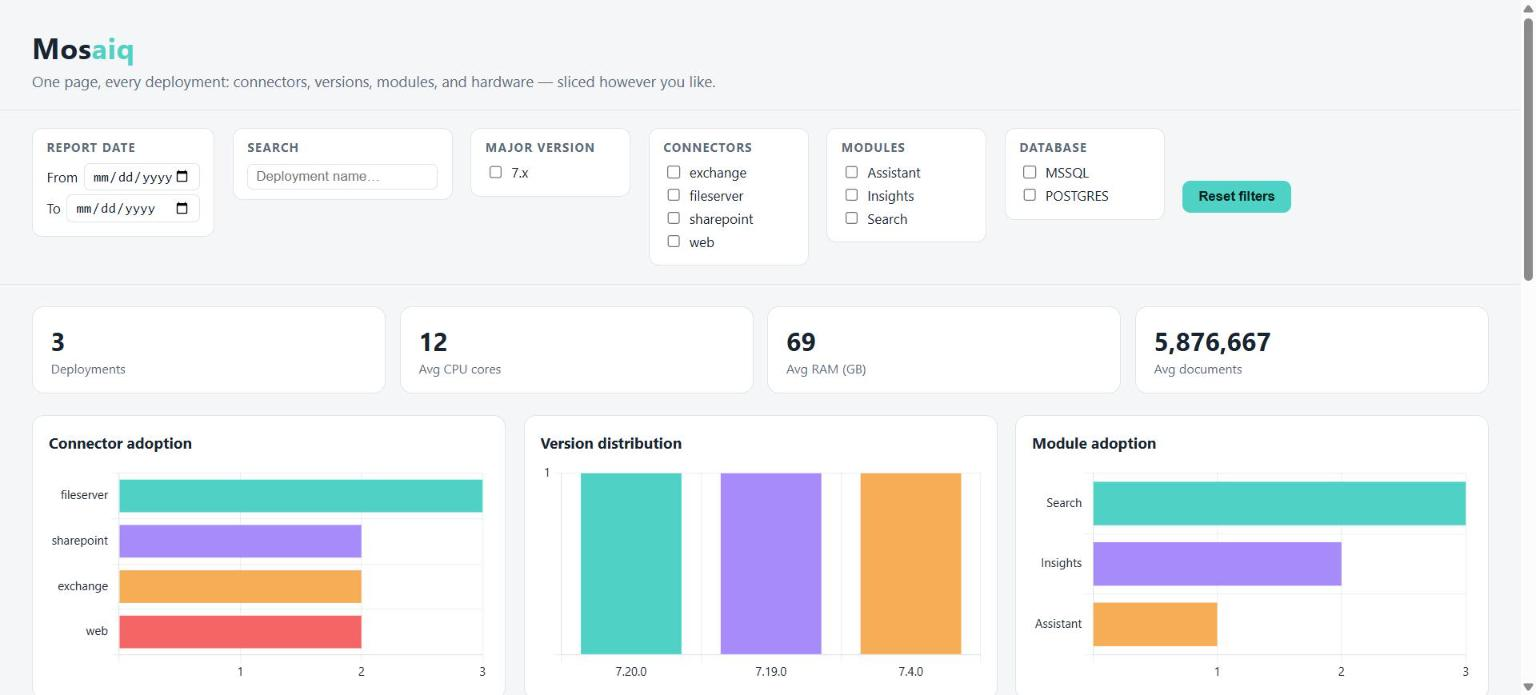
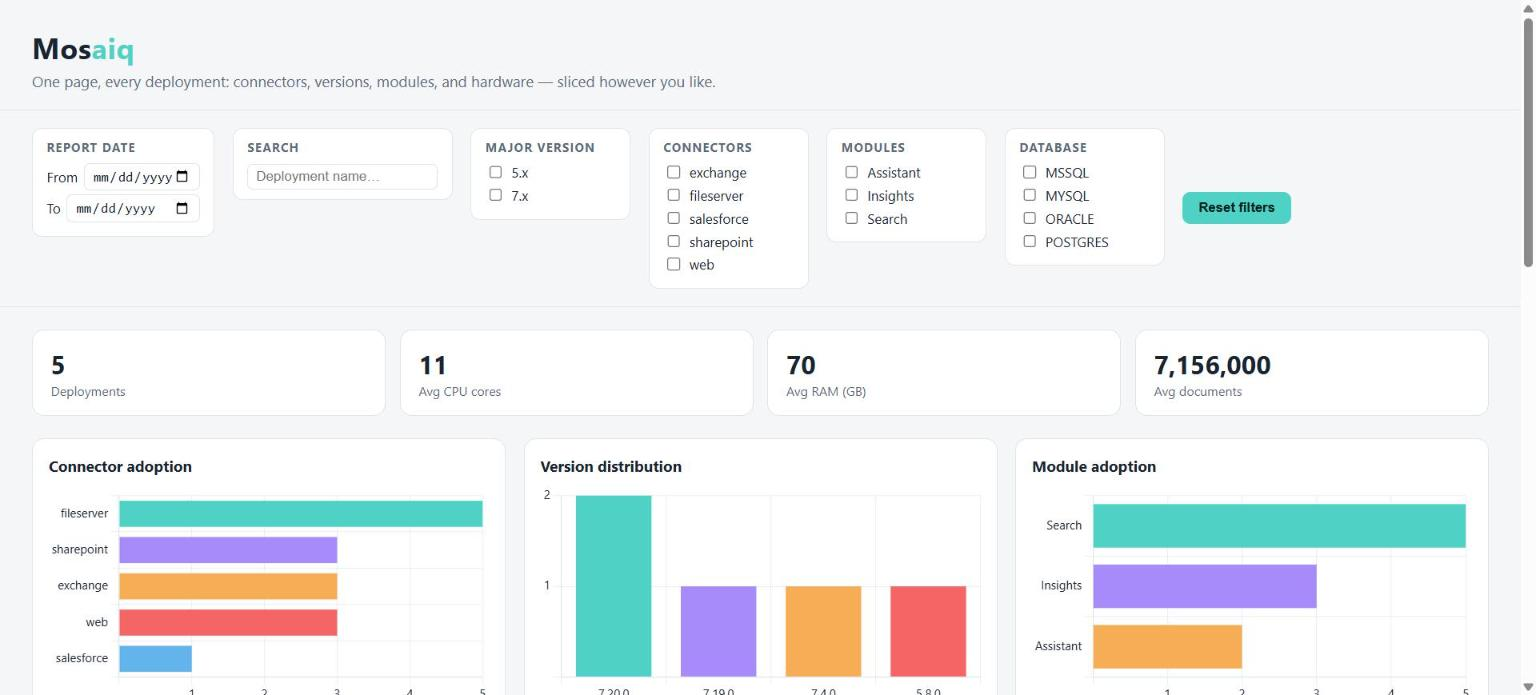
Consolidate examples under a single top-level quickstart/ walkthrough
Replaces examples/ (three disconnected sibling folders with no ordering)
with quickstart/, led by one README that walks start-to-finish: try the
bundled sample fleet, check if your format already matches, then pick
the config-only or custom-parser path. Each subfolder keeps its own
short README scoped to just its reference detail.

Also gives the sample fleet a shared version/CPU-core value across two
deployments so the version and CPU-cores distribution charts show real
variation instead of uniform bars, and regenerates the README screenshot
from the updated data.

diff --git a/mosaiq/config.py b/mosaiq/config.py
@@ -2,7 +2,7 @@
 optionally which custom parser(s) to register alongside the built-in ones, so a
 single build can combine a local folder with one or more Confluence page trees and
 teach Mosaiq a report format without writing a committed parser. See README for the
-file format, and examples/config-only-format/ for a complete worked example.
+file format, and quickstart/config-only-format/ for a complete worked example.
 
 Any relative path inside the config file (a `directory` source's `path`, a
 `mapped-field` parser's `config_file`) is resolved relative to the config file's own

diff --git a/mosaiq/parsers/mapped_field_report.py b/mosaiq/parsers/mapped_field_report.py
@@ -9,7 +9,7 @@ names out of a public repo entirely: the code here is 100% generic, and the one
 thing that's specific to any given real format - its literal section/field names -
 lives only in a config file you load at runtime, which you simply don't commit.
 
-See examples/config-only-format/ for a complete worked example and the config
+See quickstart/config-only-format/ for a complete worked example and the config
 schema, and README.md for the summary.
 """
 

diff --git a/README.md b/README.md
@@ -5,6 +5,10 @@ fleet/deployment inspection reports into a single, explorable, interactive dashb
 
 ![Mosaiq dashboard](docs/screenshot.jpg)
 
+*Generated by [`quickstart/sample-fleet/`](quickstart/sample-fleet/) — see
+[`quickstart/`](quickstart/) for the full walkthrough from this sample data to your
+own.*
+
 ## Why
 
 If you run any kind of software across many independent deployments — on-prem
@@ -46,12 +50,9 @@ plug-and-play (a new format of the same kind of product).
 
 The three formats below are already in active use by some of Mosaiq's users — not a
 closed or special list. Adding support for *any other* format, in any shape at all, is
-always a data source (which you likely don't need to touch) plus a parser — and for
-any report in this same "section header, then key: value lines" shape, that parser is
-just a config file, no code:
-[`examples/config-only-format/`](examples/config-only-format/) adds a fourth format
-this way. [`examples/custom-report-format/`](examples/custom-report-format/) shows the
-code-based path for when a format isn't this shape at all (JSON, there).
+always a data source (which you likely don't need to touch) plus a parser — see
+[`quickstart/`](quickstart/) for the full walkthrough, which adds a fourth format via
+config alone and a fifth via a custom parser as worked examples.
 
 | Format | Shape | Example fixture |
 | --- | --- | --- |
@@ -92,6 +93,10 @@ code-based path for when a format isn't this shape at all (JSON, there).
 
 ```bash
 pip install -r requirements.txt
+
+# Try it on the bundled sample fleet first - no reports of your own needed yet:
+python -m mosaiq build --config quickstart/sample-fleet/config.json \
+    --output quickstart/sample-fleet/dashboard.html
 
 # From a local folder of reports:
 python -m mosaiq build --source local --path ./reports --output dist/index.html
@@ -187,8 +192,8 @@ report's own literal field names declaratively:
 }
 ```
 
-See [`examples/config-only-format/`](examples/config-only-format/) for the complete
-field-mapping schema and a full worked example — including why this is the
+See [`quickstart/config-only-format/`](quickstart/config-only-format/) for the
+complete field-mapping schema and a full worked example — including why this is the
 recommended way to adapt Mosaiq to a real, proprietary report format you can't make
 public: the code involved is 100% generic either way, and the field-mapping file is
 the *only* thing that ever needs to stay local.
@@ -222,20 +227,24 @@ tests/
   fixtures/                   Synthetic sample reports (fictional company names only)
   test_parsers.py, test_confluence_source.py, test_config.py,
   test_fields.py, test_mapped_field_parser.py
-examples/
-  custom-report-format/       Writing a parser for a totally different report shape
-                               (JSON) - when config alone isn't enough
-  config-only-format/         Adding a format via config only, no code at all - for
-                               any report in the bundled "key: value" shape
+quickstart/
+  README.md                    Start here - the full walkthrough, start to finish
+  sample-fleet/                Run this first - the bundled formats plus two extra
+                                sample deployments, also what the screenshot above
+                                was generated from
+  custom-report-format/        Writing a parser for a totally different report shape
+                                (JSON) - when config alone isn't enough
+  config-only-format/          Adding a format via config only, no code at all - for
+                                any report in the bundled "key: value" shape
 ```
 
 ## Adding a new report format
 
 If your own report format needs to stay local — the common case for a real,
-proprietary tool — use `examples/config-only-format/` (no code) or
-`examples/custom-report-format/` (when the shape needs real code), and keep the
-config/parser wherever you keep things that don't get committed. Nothing below is
-required for that.
+proprietary tool — start at [`quickstart/`](quickstart/) for the full walkthrough:
+`quickstart/config-only-format/` (no code) or `quickstart/custom-report-format/` (when
+the shape needs real code), keeping the config/parser wherever you keep things that
+don't get committed. Nothing below is required for that.
 
 The steps below are for the *other* case: contributing a new format to Mosaiq's own
 committed parser list, because it's generic enough to ship and you're happy for it to

diff --git a/quickstart/README.md b/quickstart/README.md
@@ -1,0 +1,54 @@
+# Quickstart
+
+Everything you need to go from "I have a pile of deployment reports" to a working
+Mosaiq dashboard, in one place. Start here — the two subfolders below are reference
+material you'll only need once you've decided which path applies to you.
+
+## 1. Try it on the sample fleet first (zero setup)
+
+```bash
+pip install -r requirements.txt
+python -m mosaiq build --config quickstart/sample-fleet/config.json \
+    --output quickstart/sample-fleet/dashboard.html
+```
+
+This builds a dashboard from five fictional deployments using only the three report
+formats already built into Mosaiq — no config, no code, nothing of yours involved yet.
+Open the resulting `dashboard.html` in a browser to see the whole feature set (filters,
+charts, the data table) working before you touch your own data. This is also exactly
+how the main README's screenshot was produced — see
+[`sample-fleet/`](sample-fleet/) for what's in it.
+
+## 2. Check whether your own reports already match a bundled format
+
+If your tool's reports already look like one of Mosaiq's three built-in formats (see
+the main README's "Formats supported today" table), you're done — no example here
+applies to you. Just point `--source local`/`--config` at your real reports instead of
+the sample fleet (see the main README's "Usage" section).
+
+## 3. Otherwise, pick how to teach Mosaiq your format
+
+Two paths, depending on your report's shape — both folders below use the same kind of
+fictional report-plus-config pair as the sample fleet above, just for a format Mosaiq
+doesn't already know, so you can copy whichever matches your case as a starting point:
+
+- **Your report has the shape "a section header, then a run of `Key: value` lines"**
+  (plain text or markdown, whatever the exact delimiters) — no code needed, just a
+  field-mapping config file. See [`config-only-format/`](config-only-format/) for the
+  full worked example and field-mapping schema reference.
+- **Your report is a different shape entirely** (JSON, CSV, XML, a database export...)
+  — write a small `ReportParser` subclass. See
+  [`custom-report-format/`](custom-report-format/) for the full worked example.
+
+## 4. Point it at your real data
+
+Once your config or parser correctly reads a couple of your own real reports, swap the
+`sources` entry in your config from the fictional folder to your real one (a local
+folder, or a Confluence page/tree — see the main README's "Combining multiple sources"
+section). If your real report data or field names are proprietary, keep your
+config/parser file wherever you keep things that don't get committed — nothing about
+either mechanism here requires it to be public, only the generic Mosaiq code that reads
+it.
+
+All data in this folder (and its subfolders) is entirely fictional — Mosaiq's own
+public repo never contains real deployment data.

diff --git a/quickstart/config-only-format/README.md b/quickstart/config-only-format/README.md
@@ -1,9 +1,11 @@
-# Example: adding a format with config only, no code
+# Config-only format
 
-This is the other way to teach Mosaiq a new report format — not by writing a parser
-in Python (see `examples/custom-report-format/` for that), but purely through a
-config file, for any report whose data lives in the "section header, then key: value
-lines" shape (the same shape Mosaiq's three bundled parsers already use).
+One of the two ways to teach Mosaiq a new report format — see
+[`../README.md`](../README.md) for the full quickstart walkthrough this fits into, and
+[`../custom-report-format/`](../custom-report-format/) for the other way (writing a
+parser in Python). This path needs no code at all: just a config file, for any report
+whose data lives in the "section header, then key: value lines" shape (the same shape
+Mosaiq's three bundled parsers already use).
 
 The fictional tool here, "StackSentry", is unrelated to anything else in this repo
 and has its own field names nobody's seen before — `Client`, `Captured`, `CPU Count`,
@@ -26,8 +28,8 @@ and has its own field names nobody's seen before — `Client`, `Captured`, `CPU 
 From the repo root, using the stock CLI — no example-specific script at all:
 
 ```bash
-python -m mosaiq build --config examples/config-only-format/stacksentry-config.json \
-    --output examples/config-only-format/dashboard.html
+python -m mosaiq build --config quickstart/config-only-format/stacksentry-config.json \
+    --output quickstart/config-only-format/dashboard.html
 ```
 
 You should see one document reported as unparsed (`smoke-test-runner.txt` — correctly

diff --git a/quickstart/custom-report-format/README.md b/quickstart/custom-report-format/README.md
@@ -1,9 +1,10 @@
-# Example: adding support for any report format
+# Custom report format
 
-Mosaiq ships with parsers for three report shapes already in active use by some of
-its users today (see the main README's "Formats supported today" table). That list
-isn't special or closed — adding support for *any other* format is the exact same
-two-step recipe, demonstrated here against a deliberately unrelated, fictional tool
+The other of the two ways to teach Mosaiq a new report format — see
+[`../README.md`](../README.md) for the full quickstart walkthrough this fits into, and
+[`../config-only-format/`](../config-only-format/) for the no-code path when your
+report happens to be "section header, then key: value lines" shaped. This path is for
+everything else: demonstrated here against a deliberately unrelated, fictional tool
 ("NodeStat") that exports JSON instead of the banner/markdown text the bundled
 parsers expect. All the data here is made up; this is the same pattern you'd use to
 teach Mosaiq your own real-world tool, whatever shape its reports come in.
@@ -45,7 +46,7 @@ Extending Mosaiq to a new format is always two separate things:
 ## Running it
 
 ```bash
-cd examples/custom-report-format
+cd quickstart/custom-report-format
 python build_example.py
 ```
 

diff --git a/quickstart/sample-fleet/README.md b/quickstart/sample-fleet/README.md
@@ -1,0 +1,28 @@
+# Sample fleet
+
+Five fictional deployments combining Mosaiq's three built-in report formats — used to
+produce the dashboard in the main README's screenshot, and as the "does this even
+work" first step before you touch your own data. See [`../README.md`](../README.md)
+for the full quickstart walkthrough this fits into.
+
+## What's here
+
+- `config.json` — combines two `directory` sources: `tests/fixtures/` (the banner,
+  markdown, and host-profile samples Mosaiq's own test suite uses) and
+  `extra_reports/` below.
+- `extra_reports/` — two more fictional deployments added purely to give the sample
+  fleet some spread to look at: `Initech Partners` (banner format, an older `5.8.0`
+  release, MySQL, modest hardware) and `Umbrella Logistics` (markdown format,
+  `7.20.0` — deliberately the same exact version as one of the bundled fixtures, so
+  the version-distribution chart isn't just five flat, equal-height bars — Oracle,
+  the largest deployment in the set).
+
+## Running it
+
+```bash
+python -m mosaiq build --config quickstart/sample-fleet/config.json \
+    --output quickstart/sample-fleet/dashboard.html
+```
+
+No custom parser or config mapping of any kind — every format here is already built
+into Mosaiq.

diff --git a/quickstart/sample-fleet/extra_reports/umbrella-logistics.md b/quickstart/sample-fleet/extra_reports/umbrella-logistics.md
@@ -1,0 +1,32 @@
+## Report Info
+
+**Customer:** Umbrella Logistics
+**Local time:** 2026-08-02 14:45:00
+**User:** UMBRELLA\svc-admin
+**Script version:** FleetProbe v. 1.9.0 (2026-07-15 10:00)
+**Report type:** documentation
+
+## Hosting Server
+
+**OS:** Microsoft Windows Server 2022 Datacenter, v. 10.0.20348
+**CPU cores:** 16
+**RAM:** 128 GB
+**Net Status:** Private IP
+
+## Platform Info
+
+**Platform version:** 7.20.0
+**Connectors in actual use:** sharepoint, web, exchange, fileserver, salesforce
+
+## Database Info
+
+**Database type:** ORACLE
+
+## Index Statistics
+
+**Total documents indexed:** 18,000,000
+**Total index size:** 450 GB
+
+## Features
+
+**Enabled modules:** Search, Insights, Assistant
